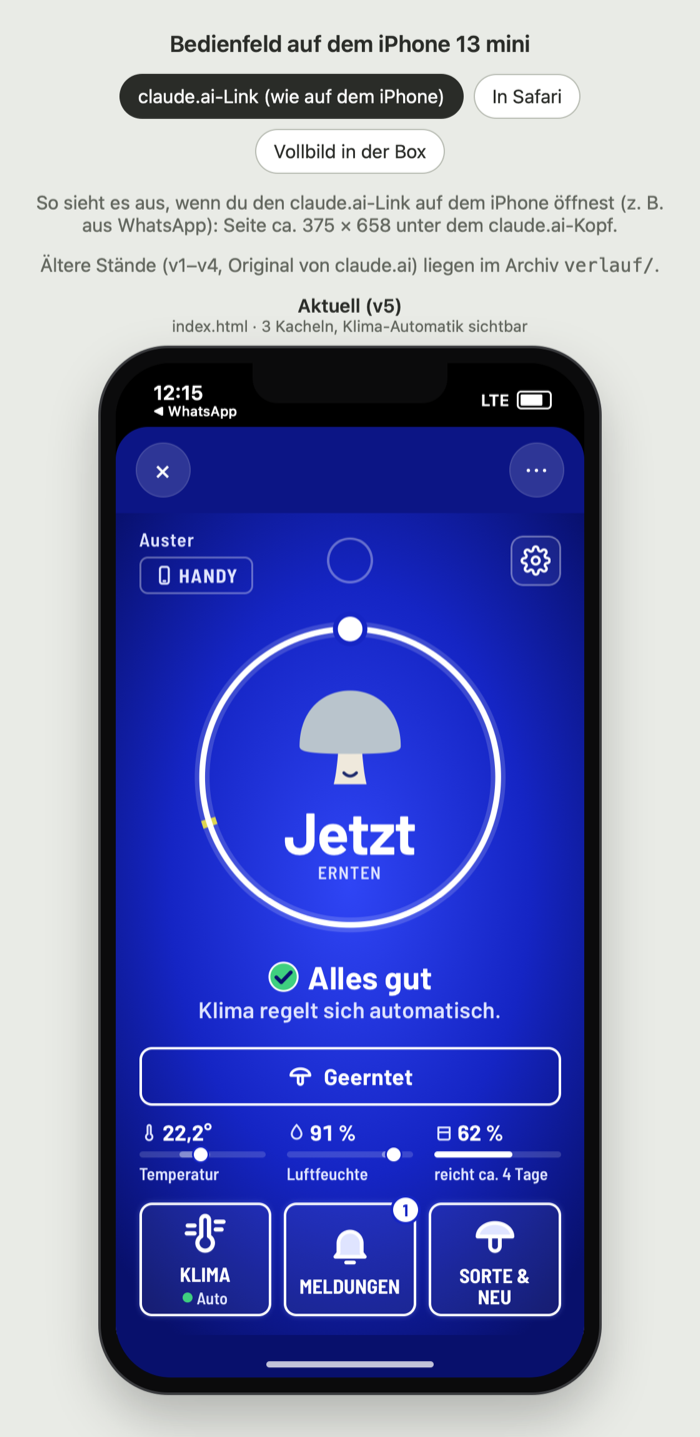
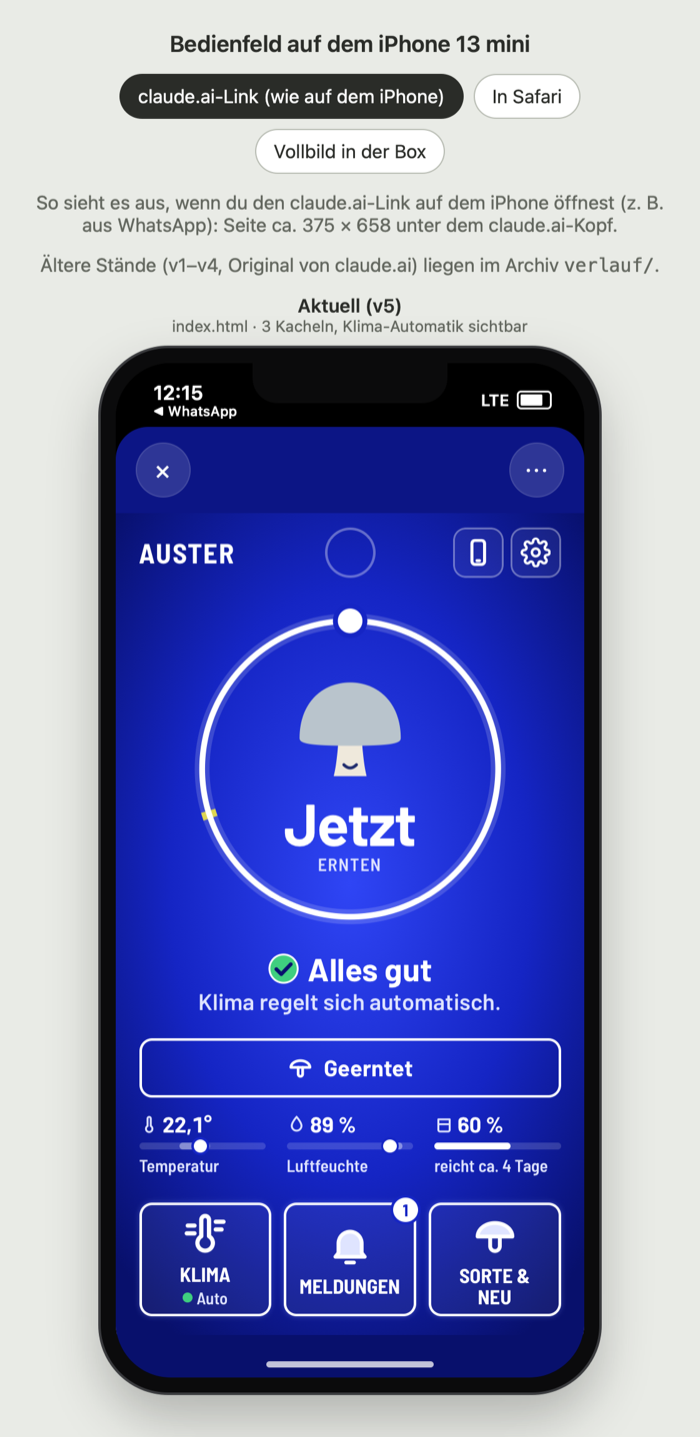
feat: Kopfzeile als eine 44-pt-Zeile (Sorte · Warnpunkt · Handy + Zahnrad); docs: blauer Hintergrund mit Folien begründet

diff --git a/01-konzept/bedienfeld/index.html b/01-konzept/bedienfeld/index.html
@@ -66,10 +66,11 @@ button{font:inherit;color:inherit;cursor:pointer;-webkit-tap-highlight-color:tra
 /* Mitte */
 .topbar{display:grid;grid-template-columns:1fr auto 1fr;align-items:center;gap:2cqw;font-family:var(--f-cond);font-weight:600;font-size:4.4cqw;letter-spacing:.04em;color:var(--ink-soft);font-variant-numeric:tabular-nums}
 .topbar b{color:var(--ink);font-weight:700}
-.topbar .tl{display:flex;flex-direction:column;align-items:flex-start;gap:1.4cqw;min-width:0}
-.topbar .tl > span{white-space:nowrap;overflow:hidden;text-overflow:ellipsis;max-width:100%}
+/* Kopfzeile: eine Zeile, alle Elemente 44 pt hoch (12cqw bei 375 pt Breite) */
+.topbar{min-height:12cqw}
+#topCulture{font-size:6.6cqw;font-weight:700;color:var(--ink);letter-spacing:.04em;text-transform:uppercase;line-height:12cqw;white-space:nowrap;overflow:hidden;text-overflow:ellipsis;min-width:0}
 /* Warnpunkt: leuchtet nur, wenn eine Warnung ansteht – aus der Ferne sichtbar (hell/dunkel + „!“, nicht nur Farbe) */
-.alarm-dot{width:11cqw;height:11cqw;border-radius:50%;border:.6cqw solid var(--ink-dim);display:grid;place-items:center;color:transparent;font-family:var(--f-ui);font-weight:800;font-size:7.4cqw;line-height:1}
+.alarm-dot{width:12cqw;height:12cqw;border-radius:50%;border:.6cqw solid var(--ink-dim);display:grid;place-items:center;color:transparent;font-family:var(--f-ui);font-weight:800;font-size:8cqw;line-height:1}
 .alarm-dot.on{background:var(--alarm);border-color:#fff;color:#1a1000;box-shadow:0 0 0 1.2cqw rgba(230,159,0,.35),0 0 5cqw 1.5cqw rgba(230,159,0,.75)}
 .topbar .tr{justify-self:end;display:inline-flex;align-items:center;gap:1.6cqw}
 .center{flex:1;display:flex;flex-direction:column;align-items:center;justify-content:center;min-height:0;padding-block:2cqw}
@@ -122,9 +123,6 @@ button{font:inherit;color:inherit;cursor:pointer;-webkit-tap-highlight-color:tra
 .ticon{display:inline-flex;align-items:center;gap:1.4cqw}
 .ticon svg{width:4.6cqw;height:4.6cqw}
 .away-chip{border:.5cqw solid var(--ink);border-radius:2cqw;font-family:var(--f-cond);font-weight:700;font-size:3.4cqw;letter-spacing:.06em;text-transform:uppercase;padding:.6cqw 2cqw;color:var(--ink)}
-.link-chip{display:inline-flex;align-items:center;gap:1cqw;border:.5cqw solid var(--ink-dim);background:transparent;border-radius:2cqw;font-family:var(--f-cond);font-weight:700;font-size:4.6cqw;letter-spacing:.06em;text-transform:uppercase;padding:1.2cqw 3cqw;color:var(--ink-soft)}
-.link-chip svg{width:5cqw;height:5cqw}
-.link-chip.on{border-color:var(--band);color:var(--ink)}
 .code{font-size:17cqw;font-weight:800;letter-spacing:.12em;text-align:center;font-variant-numeric:tabular-nums;padding:3cqw;border:.7cqw dashed var(--ink-dim);border-radius:3cqw}
 .panel ol{margin:0;padding-left:5cqw;font-size:4.2cqw;line-height:1.35;color:var(--ink-soft);display:flex;flex-direction:column;gap:1.4cqw}
 .opt small{display:block;font-weight:500;font-size:.8em;opacity:.8;margin-top:.6cqw}
@@ -132,6 +130,7 @@ button{font:inherit;color:inherit;cursor:pointer;-webkit-tap-highlight-color:tra
 /* Zahnrad: Touch-Ziel 44 × 44 pt (≈ 11,7 % von 375 pt), mit Rahmen, damit es drückbar aussieht */
 .admin-btn{display:inline-grid;place-items:center;width:12cqw;height:12cqw;padding:0;border:.5cqw solid var(--ink-dim);border-radius:3cqw;background:rgba(255,255,255,.06);color:var(--ink)}
 .admin-btn svg{width:7.2cqw;height:7.2cqw}
+#linkChip.on{border-color:var(--band)}
 .admin-btn:focus-visible{opacity:1;outline:.5cqw solid var(--band)}
 .rec{display:flex;align-items:center;gap:2cqw;border-radius:2.4cqw;padding:2.4cqw 3cqw;font-weight:700;font-size:5cqw}
 .rec svg{flex:none;width:7cqw;height:7cqw}
@@ -239,7 +238,6 @@ button{font:inherit;color:inherit;cursor:pointer;-webkit-tap-highlight-color:tra
   .screen::after{display:none}
   .plate,.demo{display:none}
   .demo-chip{display:inline-flex}
-  .topbar{font-size:4.6cqw}
   .ring{width:78cqw;height:78cqw}
   .shroom{width:30cqw;height:30cqw;margin-top:0}
   .hum{font-size:14cqw}
@@ -267,7 +265,7 @@ button{font:inherit;color:inherit;cursor:pointer;-webkit-tap-highlight-color:tra
   <div class="device">
     <div class="glass">
       <div class="screen" id="screen">
-        <div class="topbar"><div class="tl"><span id="topCulture">Auster</span><button class="link-chip" id="linkChip" aria-label="Mit Handy verbinden"><svg viewBox="0 0 24 24" fill="none" stroke="currentColor" stroke-width="2.4" stroke-linecap="round" aria-hidden="true"><rect x="7" y="2.5" width="10" height="19" rx="2.5"/><path d="M11 18.5h2"/></svg><span>Handy</span></button></div><span class="alarm-dot" id="alarmDot" role="img" aria-label="Keine Warnung">!</span><span class="tr"><span class="ticon" id="topIcons"></span><button class="admin-btn" id="demoChip" aria-label="Einstellungen"><svg viewBox="0 0 24 24" fill="none" stroke="currentColor" stroke-width="2" stroke-linecap="round" stroke-linejoin="round" aria-hidden="true"><circle cx="12" cy="12" r="3"/><path d="M19.4 15a1.7 1.7 0 0 0 .3 1.8l.1.1a2 2 0 1 1-2.8 2.8l-.1-.1a1.7 1.7 0 0 0-1.8-.3 1.7 1.7 0 0 0-1 1.5V21a2 2 0 1 1-4 0v-.1a1.7 1.7 0 0 0-1.1-1.5 1.7 1.7 0 0 0-1.8.3l-.1.1a2 2 0 1 1-2.8-2.8l.1-.1a1.7 1.7 0 0 0 .3-1.8 1.7 1.7 0 0 0-1.5-1H3a2 2 0 1 1 0-4h.1a1.7 1.7 0 0 0 1.5-1.1 1.7 1.7 0 0 0-.3-1.8l-.1-.1a2 2 0 1 1 2.8-2.8l.1.1a1.7 1.7 0 0 0 1.8.3H9a1.7 1.7 0 0 0 1-1.5V3a2 2 0 1 1 4 0v.1a1.7 1.7 0 0 0 1 1.5 1.7 1.7 0 0 0 1.8-.3l.1-.1a2 2 0 1 1 2.8 2.8l-.1.1a1.7 1.7 0 0 0-.3 1.8V9a1.7 1.7 0 0 0 1.5 1H21a2 2 0 1 1 0 4h-.1a1.7 1.7 0 0 0-1.5 1z"/></svg></button></span></div>
+        <div class="topbar"><span id="topCulture">Auster</span><span class="alarm-dot" id="alarmDot" role="img" aria-label="Keine Warnung">!</span><span class="tr"><span class="ticon" id="topIcons"></span><button class="admin-btn" id="linkChip" aria-label="Handy verbinden"><svg viewBox="0 0 24 24" fill="none" stroke="currentColor" stroke-width="2.4" stroke-linecap="round" aria-hidden="true"><rect x="7" y="2.5" width="10" height="19" rx="2.5"/><path d="M11 18.5h2"/></svg></button><button class="admin-btn" id="demoChip" aria-label="Einstellungen"><svg viewBox="0 0 24 24" fill="none" stroke="currentColor" stroke-width="2" stroke-linecap="round" stroke-linejoin="round" aria-hidden="true"><circle cx="12" cy="12" r="3"/><path d="M19.4 15a1.7 1.7 0 0 0 .3 1.8l.1.1a2 2 0 1 1-2.8 2.8l-.1-.1a1.7 1.7 0 0 0-1.8-.3 1.7 1.7 0 0 0-1 1.5V21a2 2 0 1 1-4 0v-.1a1.7 1.7 0 0 0-1.1-1.5 1.7 1.7 0 0 0-1.8.3l-.1.1a2 2 0 1 1-2.8-2.8l.1-.1a1.7 1.7 0 0 0 .3-1.8 1.7 1.7 0 0 0-1.5-1H3a2 2 0 1 1 0-4h.1a1.7 1.7 0 0 0 1.5-1.1 1.7 1.7 0 0 0-.3-1.8l-.1-.1a2 2 0 1 1 2.8-2.8l.1.1a1.7 1.7 0 0 0 1.8.3H9a1.7 1.7 0 0 0 1-1.5V3a2 2 0 1 1 4 0v.1a1.7 1.7 0 0 0 1 1.5 1.7 1.7 0 0 0 1.8-.3l.1-.1a2 2 0 1 1 2.8 2.8l-.1.1a1.7 1.7 0 0 0-.3 1.8V9a1.7 1.7 0 0 0 1.5 1H21a2 2 0 1 1 0 4h-.1a1.7 1.7 0 0 0-1.5 1z"/></svg></button></span></div>
 
         <div class="center" id="home">
           <div class="ring">

diff --git a/BRIEF.md b/BRIEF.md
@@ -58,7 +58,7 @@ Von Felix bestätigt. Diese Tabelle ist der maßgebliche Stand; Überholtes wird
 | 7–8 | Hardware | **Raspberry Pi bleibt Steuerrechner; als Display dient ein fest eingebautes iPhone 13 mini** (statt Touch Display 2), das die Web-Oberfläche des Pi über WLAN zeigt; Dauerstrom per Kabel. **Echt:** Taster und LED. **Simuliert:** Feuchte und Temperatur (für die Vorführung umschaltbar). Lüfter, Vernebler und Sensor sind nicht Teil des Prototyps. |
 | – | **Leitidee** | **B „Radikal einfach“:** ein großer Zustand (Farbe + Symbol + ein Satz), darunter drei große Kacheln. Verworfen: A „Pilz-Begleiter“ (Charakter, Gamification), C „Physisch zuerst“ (Taster/Drehknopf/LED-Ring). |
 | 10 | Startbild | **Nur 2 Stufen:** „Alles gut“ (grüner Kreis mit Haken) oder **Warnung** (gelbes Warndreieck nach ISO 7010, schwarzer Rand und „!“). Immer Form + Farbe + Text, kein Blinken. Hinweise wie „Ernte prüfen“ laufen unter „Alles gut“. |
-| 10 | Bedienfeld (Box) | **Stand 2026-11-02 (v5):** `01-konzept/bedienfeld/index.html`, aufbauend auf dem Panel-Prototyp (https://claude.ai/artifact/EGmf5bvFTK16eYGfKWVkPE). **Das Display bleibt schlank, Erweitertes gehört in die App** (z. B. eigene Sorten anlegen). Ring = Fortschritt bis zur Ernte (Größe wie im Original), Mitte Tage bis zur Ernte; Werte Temperatur · Luftfeuchte · Wasser (reicht ca. X Tage). **Automatik sichtbar.** **3 große Kacheln: Klima · Meldungen · Sorte & Neu** (v5; Ruhemodus liegt unter dem Zahnrad). Klima zeigt Lüfter, Nebler, Heizung und Licht nur mit AUTO-Status (läuft/nächstes Mal), **ohne Eingriff**; „1 Min lüften/befeuchten“ gibt es **nur in der App** (Power-User). Meldungen „Zu nass“ und „Braucht Frischluft“ haben GESEHEN statt Eingriff. **Schrift** für 50–70 cm Abstand: Beschriftungen ca. 15 px, ohne Großbuchstaben. **Kontrast:** Warntexte weiß, Orange nur für Dreieck, Rahmen und Knopf; Nebentexte `#dfe4ff`; Werte außerhalb des Bereichs mit Warndreieck. **Licht-Taster:** Klima-Fenster verweist auf den „Taster unter dem Display“ (Hinweistext ohne Rahmen, kein Touch-Knopf). Begründung mit Folien: `01-konzept/folien-recherche.md`. Startbild schlank: unter „Alles gut“ nur ein Satz in größerer Schrift „Klima regelt sich automatisch.“; **Kopfzeile (2026-11-02):** links Kurzname der Sorte (Auster, Shiitake, Kräuter, Igel), **darunter HANDY**; Antippen zeigt Code und Knopf **VERBUNDEN**, danach ist HANDY ausgeblendet (wieder einblenden: Einstellungen → Handy verbinden → Trennen). **Mitte: Warnpunkt**, leuchtet orange mit „!“ nur bei einer Warnung (aus der Ferne sichtbar; hell/dunkel + Form, nicht nur Farbe), sonst dunkler Ring. **Keine Uhr.** Rechts **Zahnrad als 44 × 44-pt-Ziel** mit Rahmen; grüner Punkt an der Klima-Taste **leuchtet ruhig**, solange AUTO läuft (kein Blinken). **Ruhemodus** (unter Einstellungen): Display schwarz; wacht nur bei einer Warnung (Handeln nötig, z. B. Tank leer, zu warm), bei Berührung oder Taster; nach 30 s ohne Bedienung wieder schwarz; oben „RUHE“ sichtbar. Push aufs Handy macht die App (Box schickt Warnungen mit). Licht nur über Taster und App, als Ausnahme bis zum nächsten Wechsel (8/20 Uhr). Heizung simuliert (an unter Zielbereich), Kühlen nur Hinweis. **Zahnrad oben = Einstellungen** (Handy verbinden, Ruhemodus, Urlaub, Über diese Box); ganz unten Knopf **Admin-Modus** (nicht direkt sichtbar). Im Admin-Modus **Vorführung als zwei Szenario-Kacheln** ohne Erklärkasten, laufen live auf dem Bildschirm (nochmal tippen = Stopp): „Box regelt selbst“ (Kälte → Heizung an → wieder gut) und „Mensch ist dran“ (Tank leer → auffüllen → ernten). Meldungen: aktueller Status mit Datum/Uhrzeit, offene Meldungen mit „seit“, **Verlauf** vergangener Meldungen (Beginn, behoben um). Sorte & Neu: Sorten **ansehen** (Schwierigkeit, Dauer, Temperatur, Feuchte) ändert nichts; **Neu ansetzen** nur nach Hinweis, was verloren geht, und **2 s gedrückt halten**; danach Kammer leeren → Zuchtset einsetzen, Zeit startet bei Tag 1. **Notfall-Rückweg** „Zurück zu …“ (14 Tage): alter Durchgang läuft mit den echten Tagen weiter. Urlaub ebenfalls unter Sorte & Neu, oben „URLAUB ✕“. **Admin-Modus** (über Einstellungen): Situationen auslösen, Tag +1, Zurücksetzen, Messwerte live. Oben **HANDY**-Verbindung wie im Original (nur auf claude.ai). Licht nur über Taster und App. Ältere Stände (v1–v4, Original) in `01-konzept/bedienfeld/verlauf/`. |
+| 10 | Bedienfeld (Box) | **Stand 2026-11-02 (v5):** `01-konzept/bedienfeld/index.html`, aufbauend auf dem Panel-Prototyp (https://claude.ai/artifact/EGmf5bvFTK16eYGfKWVkPE). **Das Display bleibt schlank, Erweitertes gehört in die App** (z. B. eigene Sorten anlegen). Ring = Fortschritt bis zur Ernte (Größe wie im Original), Mitte Tage bis zur Ernte; Werte Temperatur · Luftfeuchte · Wasser (reicht ca. X Tage). **Automatik sichtbar.** **3 große Kacheln: Klima · Meldungen · Sorte & Neu** (v5; Ruhemodus liegt unter dem Zahnrad). Klima zeigt Lüfter, Nebler, Heizung und Licht nur mit AUTO-Status (läuft/nächstes Mal), **ohne Eingriff**; „1 Min lüften/befeuchten“ gibt es **nur in der App** (Power-User). Meldungen „Zu nass“ und „Braucht Frischluft“ haben GESEHEN statt Eingriff. **Schrift** für 50–70 cm Abstand: Beschriftungen ca. 15 px, ohne Großbuchstaben. **Kontrast:** Warntexte weiß, Orange nur für Dreieck, Rahmen und Knopf; Nebentexte `#dfe4ff`; Werte außerhalb des Bereichs mit Warndreieck. **Licht-Taster:** Klima-Fenster verweist auf den „Taster unter dem Display“ (Hinweistext ohne Rahmen, kein Touch-Knopf). Begründung mit Folien: `01-konzept/folien-recherche.md`. Startbild schlank: unter „Alles gut“ nur ein Satz in größerer Schrift „Klima regelt sich automatisch.“; **Kopfzeile (2026-11-02):** **eine Zeile, alle Elemente 44 pt hoch:** links Kurzname der Sorte in Großbuchstaben (AUSTER, SHIITAKE, KRÄUTER, IGEL); **Mitte: Warnpunkt**, leuchtet orange mit „!“ nur bei einer Warnung (aus der Ferne sichtbar; hell/dunkel + Form, nicht nur Farbe), sonst dunkler Ring; rechts **Handy-Symbol** und **Zahnrad** als gleich große Knöpfe mit Rahmen. Handy antippen zeigt Code und Knopf **VERBUNDEN**, danach ist das Handy-Symbol ausgeblendet (wieder einblenden: Einstellungen → Handy verbinden → Trennen). **Keine Uhr.** grüner Punkt an der Klima-Taste **leuchtet ruhig**, solange AUTO läuft (kein Blinken). **Ruhemodus** (unter Einstellungen): Display schwarz; wacht nur bei einer Warnung (Handeln nötig, z. B. Tank leer, zu warm), bei Berührung oder Taster; nach 30 s ohne Bedienung wieder schwarz; oben „RUHE“ sichtbar. Push aufs Handy macht die App (Box schickt Warnungen mit). Licht nur über Taster und App, als Ausnahme bis zum nächsten Wechsel (8/20 Uhr). Heizung simuliert (an unter Zielbereich), Kühlen nur Hinweis. **Zahnrad oben = Einstellungen** (Handy verbinden, Ruhemodus, Urlaub, Über diese Box); ganz unten Knopf **Admin-Modus** (nicht direkt sichtbar). Im Admin-Modus **Vorführung als zwei Szenario-Kacheln** ohne Erklärkasten, laufen live auf dem Bildschirm (nochmal tippen = Stopp): „Box regelt selbst“ (Kälte → Heizung an → wieder gut) und „Mensch ist dran“ (Tank leer → auffüllen → ernten). Meldungen: aktueller Status mit Datum/Uhrzeit, offene Meldungen mit „seit“, **Verlauf** vergangener Meldungen (Beginn, behoben um). Sorte & Neu: Sorten **ansehen** (Schwierigkeit, Dauer, Temperatur, Feuchte) ändert nichts; **Neu ansetzen** nur nach Hinweis, was verloren geht, und **2 s gedrückt halten**; danach Kammer leeren → Zuchtset einsetzen, Zeit startet bei Tag 1. **Notfall-Rückweg** „Zurück zu …“ (14 Tage): alter Durchgang läuft mit den echten Tagen weiter. Urlaub ebenfalls unter Sorte & Neu, oben „URLAUB ✕“. **Admin-Modus** (über Einstellungen): Situationen auslösen, Tag +1, Zurücksetzen, Messwerte live. Oben **HANDY**-Verbindung wie im Original (nur auf claude.ai). Licht nur über Taster und App. Ältere Stände (v1–v4, Original) in `01-konzept/bedienfeld/verlauf/`. |
 | 9 | App-Aufbau | **Separate App:** einfache Startseite + 5 Unterseiten, eine davon **Advanced Analytics**. |
 | – | Booklet und Präsentation | **Story mit zwei Personen** (2026-11-02): **A** älterer Nutzer, der wenig bedient (Persona Ingrid, nur Box), und **B** Power-User, der die App als Zusatz nutzt. **Jede Entscheidung muss sich auf A oder B zurückführen lassen**, mit Folie und Erklärung: `04-evaluation/entscheidungen-folien.md`. Dazu Ausschnitt Bauprozess mit Skizzen und 1–2 FreeCAD-Bildern. |
 | – | Begriffe Box ↔ App | Gleiche Wörter, Symbole und Farben in Box und App: `01-konzept/begriffe-box-app.md` (für das App-Teammitglied). |

diff --git a/01-konzept/folien-recherche.md b/01-konzept/folien-recherche.md
@@ -39,6 +39,19 @@ Die Folien geben **keine Knopfzahl vor**. Sie liefern aber Prinzipien, mit denen
 | **66** Farbauflösung & Kontrast | „Wie wichtig ist der Bildschirmkontrast?“ | Kontraste nachgemessen (siehe unten): Weiße Schrift ist gut, **orange Schrift auf hellem Blau ist zu schwach**. |
 | **82** Feedback | Ladekreis, Fortschrittsbalken, Sanduhr | Der Ring ist ein Fortschrittsbalken für einen Prozess, der Wochen dauert. |
 
+**Der blaue Hintergrund** – was sagen die Folien?
+
+| Folie | Was die Folie zeigt | Folgerung für Blau |
+|---|---|---|
+| **22** Lichtempfindlichkeit der Sinneszellen | eigene Kurve der **S-Zapfen** (Blau, 420 nm), weit weg von M und L (534/564 nm), die sich stark überlappen | Blau wird über einen eigenen Zapfentyp gesehen. Die starke Überlappung von M und L erklärt, warum **Rot-Grün** schwierig ist, **Blau-Gelb** dagegen nicht. |
+| **20** Sinneszellen im Auge | Zapfen konzentriert in der Fovea (Punkt des schärfsten Sehens) | Externe Ergänzung: Blau-Zapfen sind selten und fehlen in der Fovea-Mitte. Deshalb **Blau als große Fläche**, nie für kleine Schrift oder Details. Bei uns: Schrift weiß, Blau nur als Hintergrund ✅ |
+| **26** präattentiv | ein farbiges Element auf gleichmäßigem Grund springt sofort heraus | Ein ruhiger, einfarbiger Hintergrund ist die Voraussetzung dafür, dass Grün (alles gut) und Orange (Warnung) sofort auffallen. Blau ist dafür gut, weil es weder Grün noch Orange ähnelt. |
+| **23** Farbenblindheit | Rot-Grün-Schwäche ca. 8 % der Männer | Unsere Simulation: Der Hintergrund bleibt bei Rot-Grün-Schwäche **blau** (`#1525c4` → `#0039c1`), Grün und Orange werden **gelblich**. Die **Blau-Gelb-Achse bleibt erhalten**: Statusfarbe und Hintergrund sind weiter klar getrennt. Nur Grün und Orange untereinander nicht, dafür gibt es Form und Text. |
+| **76** kulturelle Constraints | Farben tragen gelernte Bedeutungen (Stoppschild rot, Recycling grün) | Blau trägt bei Geräten keine Warn- oder Erfolgsbedeutung, ist also **neutral**. Grün = gut und Gelb/Orange = Achtung bleiben exklusiv für den Status. Rot nutzen wir bewusst nicht. |
+| **66** Farbauflösung & Kontrast | „Wie wichtig ist der Bildschirmkontrast?“ | Weiß auf unserem Blau: 6,4–16 : 1. Ein dunkler Grund passt auch zum Aufstellort (Küche, abends): Er blendet weniger als ein weißes Display. Das ist eine eigene Begründung, sie steht nicht auf den Folien. |
+
+**Fazit:** Der blaue Hintergrund ist mit den Folien gut begründbar, solange **Blau nur Fläche** ist (keine blaue Schrift, keine blauen Statusfarben) und der **Status über Form + Wort** läuft. Nicht aus den Folien begründbar ist die konkrete Wahl gerade *dieses* Blaus. Das ist Gestaltung (Bezug zum Original-Panel des Kollegen) und sollte im Booklet auch so benannt werden.
+
 **Simulation Rot-Grün-Schwäche** (Machado et al. 2009, volle Ausprägung):
 
 | | Grün „Alles gut“ `#3fcf7f` | Orange „Warnung“ `#e69f00` | Helligkeitsunterschied |
@@ -124,7 +137,7 @@ Was wir darüber hinaus tun, braucht für das Booklet eine **externe Quelle**, z
 2. **Nebentexte heller**: `#c7cfff` → `#dfe4ff`, jetzt mindestens 5,1 : 1 auch in der hellen Mitte.
 3. **Werte außerhalb des Zielbereichs** zeigen ein **Warndreieck statt des Symbols** und färben nicht mehr nur den Text orange (sonst wieder nur Farbe als Signal, Folie 23).
 4. **Licht-Taster** im Klima-Fenster erklärt (siehe Abschnitt 4).
-5. **Kopfzeile neu**: Warnpunkt in der Mitte (Folien 26, 23, 63, 130), HANDY links unter der Sorte und nach VERBUNDEN ausgeblendet, Uhr entfernt, Zahnrad als 44-pt-Ziel. Die Größe stammt aus einer externen Quelle (Apple HIG); die Folien begründen nur das Prinzip (Fitts, 50).
+5. **Kopfzeile neu**: eine Zeile, alles 44 pt hoch: Sorte links, Warnpunkt in der Mitte (Folien 26, 23, 63, 130), rechts Handy-Symbol (nach VERBUNDEN ausgeblendet) und Zahnrad als gleich große Knöpfe; Uhr entfernt. Die Größe stammt aus einer externen Quelle (Apple HIG); die Folien begründen nur das Prinzip (Fitts, 50).
 
 ## Weiter gültig
 

diff --git a/04-evaluation/entscheidungen-folien.md b/04-evaluation/entscheidungen-folien.md
@@ -56,8 +56,9 @@ Muss jeder es sofort sehen?                  ── ja ──► Box zeigt es, A
 | E19 | **App für Details**: Push, Advanced Analytics, eigene Sorte, 1 Min lüften, Ernte teilen | B | 101–102, 140, G 13–14 | **Zoomable UI**: erst Übersicht, dann Detail. Sheldon: **Autonomie und Kompetenz** als Bedürfnisse. → Die Box bleibt Übersicht. Wer mehr will, zoomt in der App hinein. |
 | E21 | **Warntexte weiß**, Orange nur für Dreieck, Rahmen und Knopf; Nebentexte `#dfe4ff`; Werte außerhalb des Bereichs mit **Warndreieck** statt nur oranger Schrift | A | 66, 23, 26 | Folie 66 fragt nach Bildschirmkontrast: Orange auf hellem Blau erreichte nur 2,8 : 1 (WCAG-Ziel ≥ 4,5, externe Quelle), jetzt 6,4 : 1. Folie 23: Bei Rot-Grün-Schwäche sind unser Grün und Orange fast gleich (eigene Simulation). → Jede Abweichung braucht zusätzlich eine **Form** (26). Details: [`folien-recherche.md`](../01-konzept/folien-recherche.md). |
 | E22 | **Warnpunkt** oben in der Mitte: leuchtet orange mit „!“, sobald eine Warnung ansteht, sonst nur dunkler Ring | A | 26, 23, 130, 63 | Ein einzelnes Signal auf ruhigem Grund wird **präattentiv** erkannt (26). Hell/dunkel und „!“ funktionieren auch bei Rot-Grün-Schwäche (23). *Visibility of system status* (130). Die Box ist ein **Display im Raum**, kein Handy in der Hand: Aus 2–3 m kann man keinen Text lesen (Sichtabstand, 63), einen leuchtenden Punkt aber schon. Er leuchtet ruhig; Blinken (27) bleibt als Steigerung offen. |
-| E23 | **Zahnrad** rechts oben als Touch-Ziel 44 × 44 pt mit Rahmen; **Uhr entfernt** | A | 50, 72–73, 130 | Fitts' Law (50): Größere Ziele trifft man leichter. Die Folien nennen keine Zahl, die Mindestgröße 44 pt stammt aus Apples Human Interface Guidelines (externe Quelle). Der Rahmen zeigt, dass es ein Knopf ist (Affordance, 72–73). Die Uhr war für die Pilzpflege überflüssig: *minimalist design* (130). |
-| E24 | **HANDY** oben links unter der Sorte; nach VERBUNDEN ausgeblendet, über Einstellungen wieder erreichbar | A, B | 130, 41–42 | Einmaliger Einrichtungsschritt: Ist er erledigt, muss man ihn nicht mehr sehen (*minimalist design*, 130). Er bleibt über Einstellungen erreichbar und ist umkehrbar (*user control and freedom*, 130). |
+| E23 | **Kopfzeile als eine Zeile, alles 44 pt hoch**: Sorte · Warnpunkt · Handy + Zahnrad als gleich große Knöpfe mit Rahmen; **Uhr entfernt** | A | 50, 72–73, 130 | Fitts' Law (50): Größere Ziele trifft man leichter. Die Folien nennen keine Zahl, die Mindestgröße 44 pt stammt aus Apples Human Interface Guidelines (externe Quelle). Der Rahmen zeigt, dass es ein Knopf ist (Affordance, 72–73). Die Uhr war für die Pilzpflege überflüssig: *minimalist design* (130). |
+| E24 | **Handy-Symbol** rechts neben dem Zahnrad (Einrichtung gruppiert); nach VERBUNDEN ausgeblendet, über Einstellungen wieder erreichbar | A, B | 130, 41–42 | Einmaliger Einrichtungsschritt: Ist er erledigt, muss man ihn nicht mehr sehen (*minimalist design*, 130). Er bleibt über Einstellungen erreichbar und ist umkehrbar (*user control and freedom*, 130). |
+| E25 | **Blauer Hintergrund** nur als Fläche; Schrift weiß; Grün/Orange exklusiv für den Status, kein Rot | A, B | 20, 22, 23, 26, 76 | Blau wird über eigene S-Zapfen gesehen (22) und eignet sich nicht für feine Details (20, extern: wenige Blau-Zapfen in der Fovea), deshalb nur als Fläche. Ein ruhiger Grund lässt Statusfarben präattentiv herausspringen (26). Die Blau-Gelb-Achse bleibt bei Rot-Grün-Schwäche erhalten (23, eigene Simulation). Blau ist kulturell neutral (76). |
 | E20 | **Admin-Modus** versteckt (Einstellungen → ganz unten) | – | 60 | Nicht personenbezogen, nur für die Vorführung. Er bleibt verborgen, damit kein Nutzer versehentlich hineingerät. |
 
 ## Story für die Präsentation

diff --git a/01-konzept/bedienfeld/README.md b/01-konzept/bedienfeld/README.md
@@ -17,4 +17,4 @@
 | Original claude.ai, Live-Stand (29.10.2026, 12:15) | [`verlauf/claude-ai-live/`](verlauf/claude-ai-live/) | Weiterentwicklung des Kollegen: Name „FunghiLab“, Handy-Verbindung per Code (Box ↔ Handy-App); archiviert. Bei Änderungen am Link neu übernehmen |
 | v3 (29.10.2026) | [`verlauf/v3/`](verlauf/v3/) | Ring = Fortschritt bis zur Ernte, Status-Symbole aus v1, Werte als Balken; 2 Status-Stufen; Tasten Lüften · Befeuchten (mit Empfehlung) · Meldungen (mit Verlauf) · Sorte & Neu (ansehen, bewusst neu ansetzen, Notfall-Rückweg, Urlaub); Admin-Modus; HANDY-Verbindung wie im Original |
 | v4 (29.10.2026) | [`verlauf/v4/`](verlauf/v4/) | Automatik sichtbar: Kacheln Klima (Lüfter, Nebler, Heizung, Licht mit AUTO-Status) · Ruhemodus (Display weckt nur bei Warnung) · Meldungen · Sorte & Neu; grüner Punkt an Klima blinkt dauerhaft; „Alles gut“ ohne Zusatztext; oben nur Pilzname; simulierte Heizung; Vorführung im Admin-Modus |
-| v5 aktuell (02.11.2026) | [`index.html`](index.html) | Nach Review mit den Folien: **3 größere Kacheln** Klima · Meldungen · Sorte & Neu (Ruhemodus unter dem Zahnrad); größere Beschriftungen ohne Großbuchstaben; Klima-Punkt leuchtet ruhig statt zu blinken; **„1 Min lüften/befeuchten“ nur noch in der App**, das Klima-Fenster zeigt nur, was die Box selbst tut; Meldungen „Zu nass“ und „Braucht Frischluft“ mit GESEHEN statt Eingriff; nach Folien-Recherche: Warntexte weiß (Kontrast), Nebentexte heller, Warndreieck bei Werten außerhalb des Bereichs, Klima-Fenster verweist auf den Licht-Taster; Kopfzeile: HANDY links unter der Sorte (nach VERBUNDEN ausgeblendet), Warnpunkt in der Mitte, keine Uhr, großes Zahnrad |
+| v5 aktuell (02.11.2026) | [`index.html`](index.html) | Nach Review mit den Folien: **3 größere Kacheln** Klima · Meldungen · Sorte & Neu (Ruhemodus unter dem Zahnrad); größere Beschriftungen ohne Großbuchstaben; Klima-Punkt leuchtet ruhig statt zu blinken; **„1 Min lüften/befeuchten“ nur noch in der App**, das Klima-Fenster zeigt nur, was die Box selbst tut; Meldungen „Zu nass“ und „Braucht Frischluft“ mit GESEHEN statt Eingriff; nach Folien-Recherche: Warntexte weiß (Kontrast), Nebentexte heller, Warndreieck bei Werten außerhalb des Bereichs, Klima-Fenster verweist auf den Licht-Taster; Kopfzeile als eine Zeile mit 44 pt: Sorte · Warnpunkt · Handy-Symbol (nach VERBUNDEN ausgeblendet) + Zahnrad; keine Uhr |

diff --git a/01-konzept/begriffe-box-app.md b/01-konzept/begriffe-box-app.md
@@ -25,7 +25,7 @@ Nur **zwei Stufen**. Keine dritte Farbe (z. B. Rot) in der App einführen.
 | **Meldungen** (Zahl = offene Meldungen) | Meldungen | offene Meldungen mit „seit“, Verlauf (Beginn, „behoben um“ / „erledigt um“) |
 | **Sorte & Neu** | Sorte & Neu | Sorten ansehen, neu ansetzen, Notfall „Zurück zu …“, Urlaub |
 | Zahnrad = **Einstellungen** (oben rechts) | Einstellungen | Handy verbinden, Ruhemodus, Urlaub, Über diese Box |
-| **HANDY** (oben links unter der Sorte) | – | Code zum Verbinden, Knopf **VERBUNDEN**; danach ausgeblendet |
+| **Handy-Symbol** (oben rechts neben dem Zahnrad) | – | Code zum Verbinden, Knopf **VERBUNDEN**; danach ausgeblendet |
 | – | **Advanced Analytics** (nur App) | Verläufe, CO₂, Vergleiche |
 
 ## Geräte und Werte
